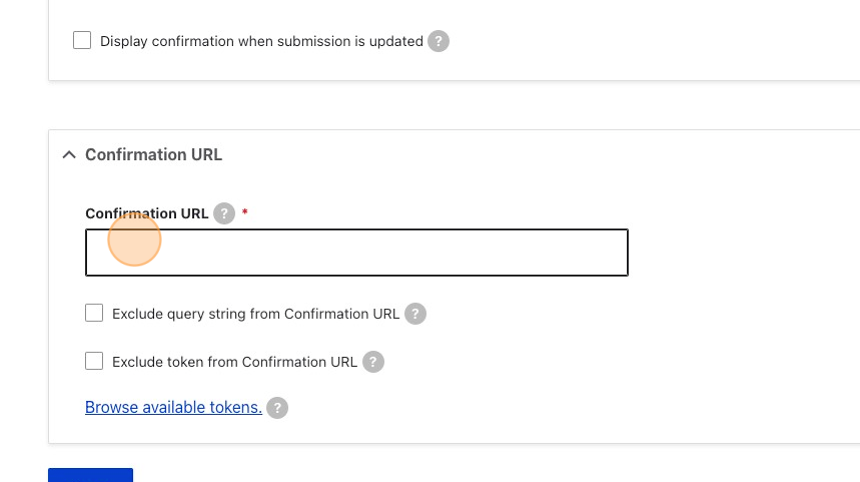
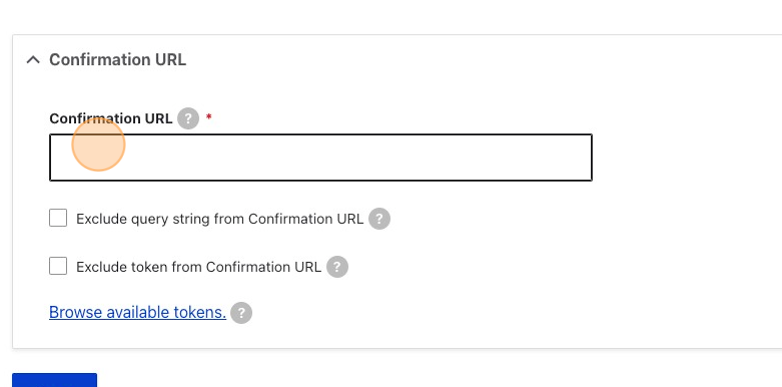
fixes to doco.

diff --git a/Manual.md b/Manual.md
@@ -230,7 +230,7 @@ Once you’ve analysed the API, you’re ready to start the process of creating 
 
 8. Click "Add handler" against the OpenFisca Journey handler - this step will ensure that the webform goes through OpenFisca processing.\
    ![](assets/create-webform-7.png)
-9. Click Save
+9. Click Save\
    ![](assets/create-webform-8.png)
 
 10. Now we need to add details of the OpenFisca API. Click "General"
@@ -318,7 +318,7 @@ We will come back later and update this value once we start working on block vis
 27.  Let’s name the field aus\_citizen\_or\_permanent\_resident
     ![](assets/build-5.jpeg)
 
-28. Add the options for the field. Please note that in this case, we are using prefix and suffix for the field to improve the UX of the webform.
+28. Add the options for the field. Please note that in this case, we are using prefix and suffix for the field to improve the UX of the webform.\
      ![](assets/build-6.png)
 
 29. Now, we need to associate it to an OpenFisca variable. Scroll down and click this dropdown.
@@ -352,11 +352,11 @@ We will come back later and update this value once we start working on block vis
 38. We will follow the same process and add the 2 more return variables we need.
     disability\_allowance\_benefit and monthly\_income\_exceeds\_limit
 
-39. You may or may not want to add conditional visibility options for the form. E.g. if the user says that they are NOT an AUS citizen or resident, we might want to show them a “You are not eligible” message and not show them the Submit button. For this, you can add a markup like this
+39. You may or may not want to add conditional visibility options for the form. E.g. if the user says that they are NOT an AUS citizen or resident, we might want to show them a “You are not eligible” message and not show them the Submit button. For this, you can add a markup like this\
 ![](assets/build-17.png)
 
-And configure conditions like this: ![](assets/build-18.png)
-
+And configure conditions like this:\
+![](assets/build-18.png)
 40. The form is now created. Below is a screenshot of what it looks like in the frontend of the website.
     ![](assets/build-19.png)
 
